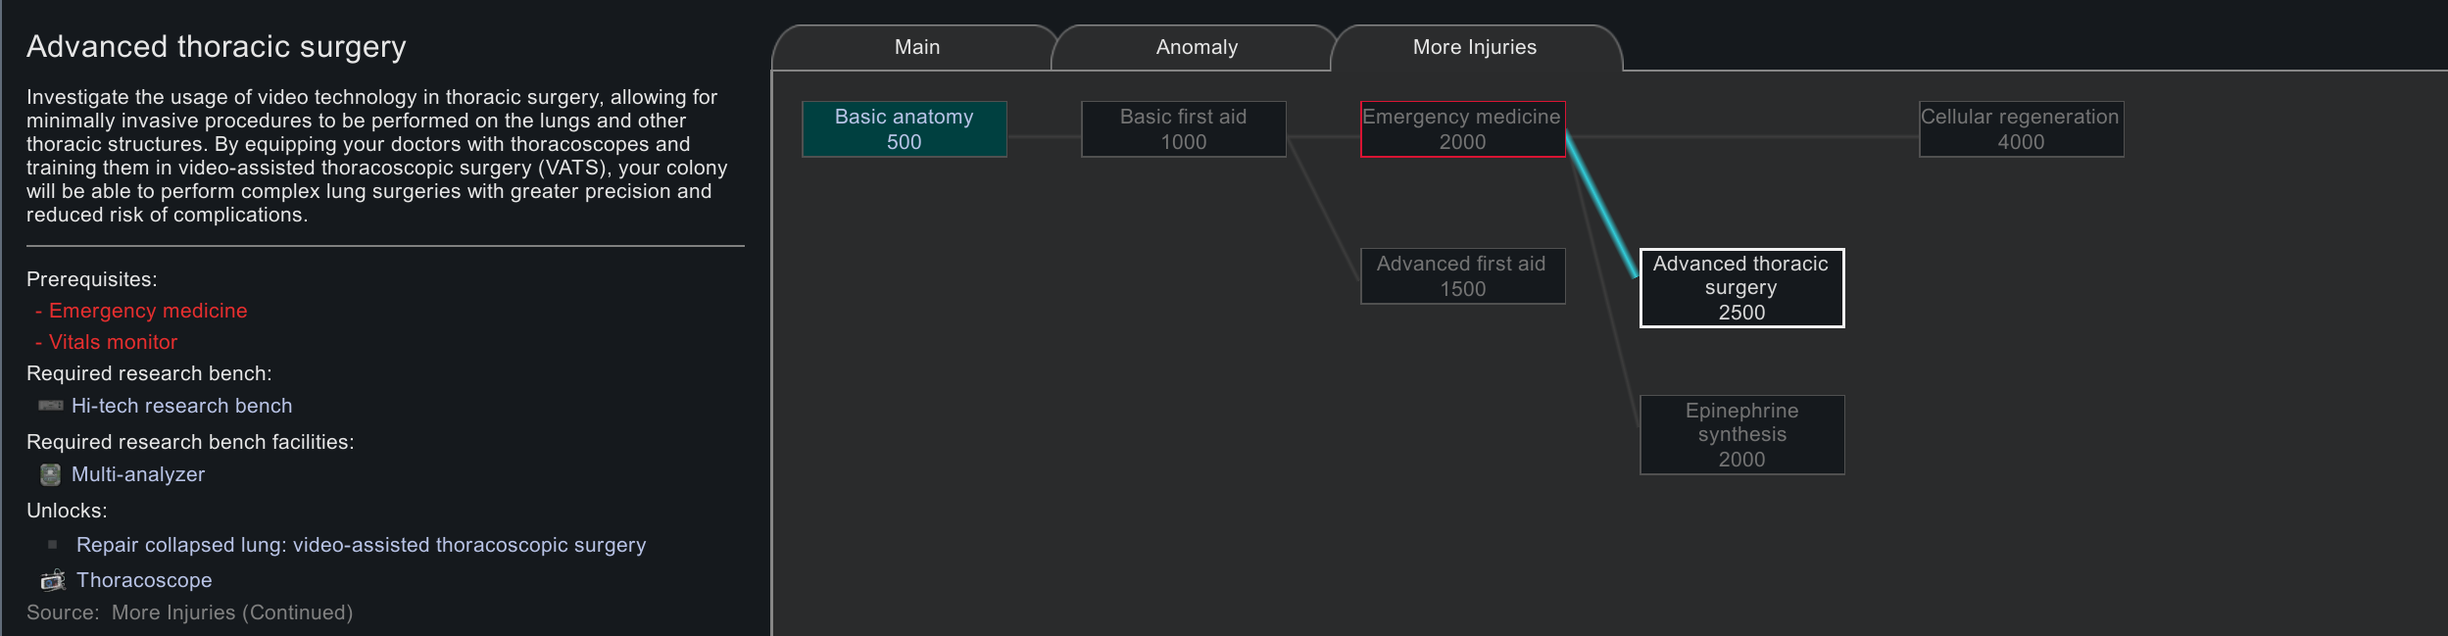
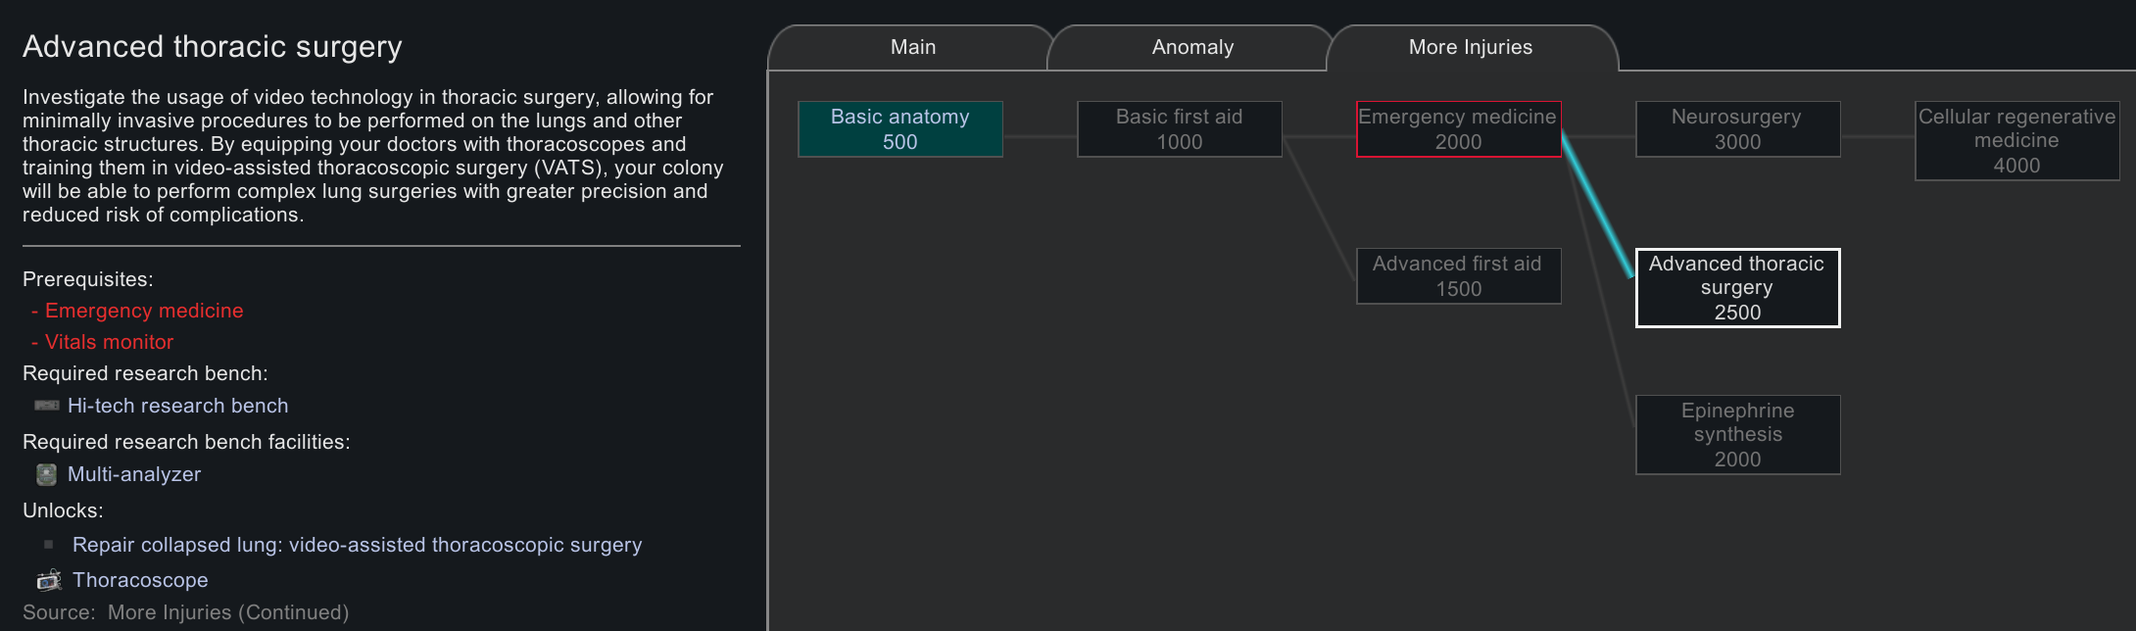
finish docs

diff --git a/README.md b/README.md
@@ -72,9 +72,10 @@ The More Injuries mod aims to increase the simulation depth of RimWorld's medica
     - [Basic First Aid](#basic-first-aid)
     - [Emergency Medicine](#emergency-medicine)
     - [Advanced First Aid](#advanced-first-aid)
+    - [Neurosurgery](#neurosurgery)
     - [Advanced Thoracic Surgery](#advanced-thoracic-surgery)
     - [Epinephrine Synthesis](#epinephrine-synthesis)
-    - [Cellular Regeneration](#cellular-regeneration)
+    - [Cellular Regenerative Medicine](#cellular-regenerative-medicine)
   - [New Work Types](#new-work-types)
     - [Defibrillation](#defibrillation)
     - [Airway Management](#airway-management)
@@ -362,13 +363,13 @@ Hypoxia is a condition in which the body or a region of the body is deprived of 
 ### Paralysis
 
 > **In-Game Description**
-> _"**Paralysis** &mdash; Damage of spinal cord caused irrepairable movement disability, ranging from sensory loss to complete loss of movement. Paralysis is often a life-changing condition and may require the use of bionic implants or prosthetics to restore function."_
+> _"**Paralysis** &mdash; Damage of spinal cord caused irrepairable movement disability, ranging from sensory loss to complete loss of movement. Although there have been reports of successful experimental treatments on distant glitterworlds using cellular regenerative neurosurgery to repair damaged nerve tissue and restore function to paralyzed limbs, for most people paralysis is a life-changing condition that requires the use of bionic implants or prosthetics to restore function."_
 
 **Causes**: Severe back injuries, such as a gunshot wound or stab wound to the spine, that crush or sever the spinal cord.
 
 **Effects**: Damage to the spinal cord prevents the transmission of signals between the brain and the affected body parts, causing a loss of movement and sensation in the affected limbs. Depending on the severity of the injury, patients may experience a range of symptoms, from sensory loss to complete loss of movement.
 
-**Treatment**: By itself, paralysis is an irreversible condition that cannot be treated with conventional medicine. However, bionic implants or prosthetics may be used to restore partial or full function to the affected body parts.
+**Treatment**: By itself, paralysis is an irreversible condition that cannot be treated with conventional medicine. However, bionic implants or prosthetics may be used to restore partial or full function to the affected body parts. There have also been reports of successful experimental treatments on distant glitterworlds using [cellular regenerative neurosurgery](#cellular-regenerative-neurosurgery) to repair damaged nerve tissue and restore function to paralyzed limbs.
 
 ### Spalling Injury
 
@@ -437,7 +438,7 @@ In order to effectively treat the new injuries and medical conditions introduced
 
 **Production**: At a machining table.  
 **Production Skill Requirement**: `Crafting` at level 4  
-**Research Requirements**: [Emergency Medicine](#emergency-medicine)  
+**Research Requirements**: [Emergency medicine](#emergency-medicine)  
 **Ingredients**: 25x `Steel`, 20x `Chemfuel`, 1x `Component`, 5x `Plasteel`  
 **Success Chance**: `<medicine skill>  / 8`, but at least the configured minimum success chance in the mod settings.
 
@@ -461,7 +462,7 @@ In order to effectively treat the new injuries and medical conditions introduced
 
 **Production**: At a crafting spot or tailor bench.  
 **Production Skill Requirement**: None  
-**Research Requirements**: [Basic Anatomy](#basic-anatomy)  
+**Research Requirements**: [Basic anatomy](#basic-anatomy)  
 **Ingredients**: 2x `any fabric`  
 **Success Chance**: 100%
 
@@ -490,7 +491,7 @@ In order to effectively treat the new injuries and medical conditions introduced
 2. Downed enemies can be executed through the `Harvest blood (finish off)` option in the right-click context menu to extract blood bags from them (requires a medically skilled, *drafted* pawn capable of doctoring). This is a quick and effective way to obtain blood bags from enemies on the battlefield, but is considered a war crime and will have severe consequences for your faction relations.
 3. Blood bags can be automatically and safely extracted from prisoners using the `blood bag farm` prisoner interaction option. It works analogous to the `hemogen farm` option from the Biotech DLC and allows to automatically schedule the extraction of blood bags from prisoners at regular intervals when it is safe to do so and does not pose a risk to the prisoner's health. It is still considered an unethical and offensive practice and will have consequences for your faction relations.
 
-**Research Requirements**: [Basic First Aid](#basic-first-aid)  
+**Research Requirements**: [Basic first aid](#basic-first-aid)  
 **Ingredients**: N/A  
 **Success Chance**: 100%
 
@@ -509,7 +510,7 @@ Cardiopulmonary resuscitation (CPR) is an emergency procedure that combines ches
 2. CPR is part of the [First Aid](#first-aid) order for *drafted* pawns.
 3. Alternatively, resuscitating patients using CPR is now part of a new general, high-priority work type for all doctors. So, if you have a patient in a hospital bed with a condition that requires CPR, any non-drafted doctor will automatically attempt to resuscitate the patient using CPR or a [defibrillator](#defibrillator), in accordance with the configured work priorities.
 
-**Research Requirements**: [Emergency Medicine](#emergency-medicine)  
+**Research Requirements**: [Emergency medicine](#emergency-medicine)  
 **Severity Reduction**: $f_{\text{sigmoid}}($ `medicine skill> / 15` $)$ where $f_{\text{sigmoid}}$ is a diffused sigmoid function defined as $f_{\text{sigmoid}}(x) = \frac{1}{1 + e^{-10\cdot(x - 0.5)}} + z$ where $z$ is a random factor between $-0.1$ and $0.1$. See [Wolfram Alpha](https://www.wolframalpha.com/input?i=f%28x%29+%3D+1+%2F+%281+%2B+e%5E%28-10*%28x%2F15+-+0.5%29%29%29+%2B+z%2C+x+in+%5B0%2C+20%5D%2C+z+in%5B-0.1%2C0.1%5D) for a visualization of the function.
 
 > [!IMPORTANT]
@@ -538,7 +539,7 @@ Defibrillation is a treatment for life-threatening conditions that affect the rh
 
 **Production**: At a machining table.  
 **Production Skill Requirement**: `Crafting` at level 6  
-**Research Requirements**: [Emergency Medicine](#emergency-medicine)  
+**Research Requirements**: [Emergency medicine](#emergency-medicine)  
 **Ingredients**: 25x `Steel`, 20x `Chemfuel`, 4x `Component`, 25x `Plasteel`, 10x `Gold`, 100x `Silver`  
 **Success Chance**: `<medicine skill>  / 8`, but at least the configured minimum success chance in the mod settings.  
 **Chance to Break[^1]**: 10%
@@ -563,7 +564,7 @@ Defibrillation is a treatment for life-threatening conditions that affect the rh
 
 **Production**: At a drug lab.  
 **Production Skill Requirement**: `Crafting` at level 6, `Intellectual` at level 4  
-**Research Requirements**: `Drug Production` and `Medicine Production`  
+**Research Requirements**: [Epinephrine synthesis](#epinephrine-synthesis)  
 **Ingredients**: 1x `Neutroamine`, 1x `Yayo`  
 **Success Chance**: 100%
 
@@ -618,7 +619,7 @@ After each step, the doctor will re-evaluate the patient's condition and decide 
 
 **Production**: At a drug lab.  
 **Production Skill Requirement**: `Crafting` at level 4  
-**Research Requirements**: [Advanced First Aid](#advanced-first-aid)  
+**Research Requirements**: [Advanced first aid](#advanced-first-aid)  
 **Ingredients**: 5x `any textile`, 3x `Chemfuel`  
 **Success Chance**: 100%
 
@@ -648,7 +649,7 @@ After each step, the doctor will re-evaluate the patient's condition and decide 
 
 **Production**: At a crafting spot or machining table.  
 **Production Skill Requirement**: None  
-**Research Requirements**: [Basic Anatomy](#basic-anatomy)  
+**Research Requirements**: [Basic anatomy](#basic-anatomy)  
 **Ingredients**: 4x `Wood` or `Steel`, 1x `any textile`  
 **Success Chance**: 100%
 
@@ -670,7 +671,7 @@ After each step, the doctor will re-evaluate the patient's condition and decide 
 
 **Production**: At a machining table.  
 **Production Skill Requirement**: `Crafting` at level 8  
-**Research Requirements**: [Advanced Thoracic Surgery](#advanced-thoracic-surgery)  
+**Research Requirements**: [Advanced thoracic surgery](#advanced-thoracic-surgery)  
 **Ingredients**: 20x `Steel`, 20x `Chemfuel`, 4x `Component`, 50x `Plasteel`, 20x `Gold`, 250x `Silver`  
 **Chance to Break[^1]**: 20%
 
@@ -706,7 +707,7 @@ Alternatively, use the *tourniquet gizmo* (depicted on the right) to apply or re
 
 **Production**: At a crafting spot or tailor bench.  
 **Production Skill Requirement**: None  
-**Research Requirements**: [Basic First Aid](#basic-first-aid)  
+**Research Requirements**: [Basic first aid](#basic-first-aid)  
 **Ingredients**: 1x `Wood` or `Steel`, 4x `any textile` or `leather`  
 **Success Chance**: 100%
 
@@ -726,19 +727,31 @@ Just like base game surgeries, these new surgeries will be available in the *ope
 
 ### Cellular Regenerative Neurosurgery
 
-TODO ...
+$\rightarrow$ *see [paralysis](#paralysis)*
+
+> **In-Game Description**
+> _"**Restore mobility: cellular regenerative surgery** &mdash; Cellular regenerative neurosurgery (CRNS) is an experimental glitterworld surgery that uses mechanites to repair damaged nerve cells in the spinal cord, restoring mobility to a person with permanent paralysis. The procedure is expensive and not widely available, but has shown promising results in restoring mobility, even in very severe cases."_
+
+**Used for**: Treating [paralysis](#paralysis) with advanced medical techniques and glitterworld medicine.
+
+**Skill Requirements**: `Medicine` at level 12  
+**Research Requirements**: [Cellular regenerative medicine](#cellular-regenerative-medicine)  
+**Ingredients**: 2x `Glitterworld Medicine`  
+**Surgery Success Chance Factor[^2]**: 110%  
+**Death on Failed Surgery Chance[^3]**: 0%  
+**Work Amount**: 4500
 
 ### Cellular Regenerative Otologic Surgery
 
 $\rightarrow$ *see [permanent hearing loss](#permanent-hearing-loss)*
 
 > **In-Game Description**
-> _"**Repair hearing loss: cellular regenerative surgery** &mdash; Cellular Regenerative Otologic Surgery (CROS) is an experimental glitterworld surgery that uses mechanites to repair damaged hair cells in the inner ear, restoring hearing to a person with permanent hearing loss. The procedure is expensive and not widely available, but has shown moderate success in restoring hearing, even in very severe cases."_
+> _"**Repair hearing loss: cellular regenerative surgery** &mdash; Cellular Regenerative Otologic Surgery (CROS) is an experimental glitterworld surgery that uses mechanites to repair damaged hair cells in the inner ear, restoring hearing to a person with permanent hearing loss. The procedure is expensive and not widely available, but has shown promising results in restoring hearing, even in very severe cases."_
 
 **Used for**: Treating [permanent hearing loss](#permanent-hearing-loss) with advanced medical techniques and glitterworld medicine.
 
 **Skill Requirements**: `Medicine` at level 12  
-**Research Requirements**: None  
+**Research Requirements**: [Cellular regenerative medicine](#cellular-regenerative-medicine)  
 **Ingredients**: 2x `Glitterworld Medicine`  
 **Surgery Success Chance Factor[^2]**: 110%  
 **Death on Failed Surgery Chance[^3]**: 0%  
@@ -759,7 +772,7 @@ $\rightarrow$ *see [hemorrhagic stroke](#hemorrhagic-stroke)*
 **Used for**: Treating [hemorrhagic stroke](#hemorrhagic-stroke) with good medical knowledge and industrial equipment at a moderate success rate.
 
 **Skill Requirements**: `Medicine` at level 5  
-**Research Requirements**: [Emergency Medicine](#emergency-medicine)  
+**Research Requirements**: [Emergency medicine](#emergency-medicine)  
 **Ingredients**: 3x `Medicine` or better  
 **Surgery Success Chance Factor[^2]**: 110%  
 **Death on Failed Surgery Chance[^3]**: 2.5%  
@@ -776,7 +789,7 @@ $\rightarrow$ *see [bone fracture](#bone-fracture)*
 **Used for**: Treating [bone fractures](#bone-fracture) with more expensive and invasive surgical techniques to speed up the healing process significantly.
 
 **Skill Requirements**: `Medicine` at level 5  
-**Research Requirements**: [Emergency Medicine](#emergency-medicine)  
+**Research Requirements**: [Emergency medicine](#emergency-medicine)  
 **Ingredients**: 2x any `Medicine`, 5x `Plasteel`  
 **Surgery Success Chance Factor[^2]**: 125%  
 **Death on Failed Surgery Chance[^3]**: 0.5%  
@@ -794,7 +807,7 @@ $\rightarrow$ *see [hemorrhagic stroke](#hemorrhagic-stroke)*
 **Used for**: Treating [hemorrhagic stroke](#hemorrhagic-stroke) with excellent medical knowledge and advanced medical equipment at a high success rate.
 
 **Skill Requirements**: `Medicine` at level 8  
-**Research Requirements**: None  
+**Research Requirements**: [Neurosurgery](#neurosurgery)  
 **Ingredients**: 4x `Medicine` or better, 1x `Glitterworld Medicine`  
 **Surgery Success Chance Factor[^2]**: 150%  
 **Death on Failed Surgery Chance[^3]**: 1%  
@@ -812,7 +825,7 @@ $\rightarrow$ *see [lung collapse](#lung-collapse)*
 **Used for**: Treating [lung collapse](#lung-collapse) with invasive surgical techniques to repair the damage and restore the lung to full function. Moderate success rate and moderate risk of complications.
 
 **Skill Requirements**: `Medicine` at level 6  
-**Research Requirements**: [Emergency Medicine](#emergency-medicine)  
+**Research Requirements**: [Emergency medicine](#emergency-medicine)  
 **Ingredients**: 3x `Medicine`  
 **Surgery Success Chance Factor[^2]**: 100%  
 **Death on Failed Surgery Chance[^3]**: 2.5%  
@@ -830,7 +843,7 @@ $\rightarrow$ *see [hemorrhagic stroke](#hemorrhagic-stroke)*
 **Used for**: Treating [hemorrhagic stroke](#hemorrhagic-stroke) with readily available equipment and basic medical knowledge at a mediocre success rate.
 
 **Skill Requirements**: `Medicine` at level 2  
-**Research Requirements**: [Basic Anatomy](#basic-anatomy)  
+**Research Requirements**: [Basic anatomy](#basic-anatomy)  
 **Ingredients**: 2x `Herbal Medicine` or better  
 **Surgery Success Chance Factor[^2]**: 90%  
 **Death on Failed Surgery Chance[^3]**: 7.5%  
@@ -851,11 +864,11 @@ $\rightarrow$ *see [lung collapse](#lung-collapse)*
 **Used for**: Treating [lung collapse](#lung-collapse) with minimally invasive surgical techniques to repair the damage and restore the lung to full function. High success rate and low risk of complications.
 
 **Skill Requirements**: `Medicine` at level 8  
-**Research Requirements**: [Advanced Thoracic Surgery](#advanced-thoracic-surgery)  
+**Research Requirements**: [Advanced thoracic surgery](#advanced-thoracic-surgery)  
 **Ingredients**: 3x `Medicine` or better, 1x[^1] [Thoracoscope](#thoracoscope)  
 **Surgery Success Chance Factor[^2]**: 135%  
 **Death on Failed Surgery Chance[^3]**: 1%  
-**Work Amount**: 5000
+**Work Amount**: 4000
 
 ## New Research Projects
 
@@ -863,76 +876,105 @@ More Injuries introduces several new research projects that can be undertaken to
 
 ![An overview of the new research projects added by More Injuries.](assets/research.png)
 
-> [!NOTE]
-> All new research projects can be found in the *More Injuries* research tab.
-
-TODO: update dependencies to list required research projects
+> [!TIP]
+> All new research projects can be found in the new *More Injuries* research tab.
 
 ### Basic Anatomy
 
 > **In-Game Description**
-> _"**Basic Anatomy** &mdash; Delving into the fundamentals of human anatomy, this research uncovers ancient knowledge from the earliest recorded forms of medicine. By studying these time-honored practices, your scientists will equip your doctors with the skills to perform basic medical procedures, including wound treatment and disease management. This marks a vital first step toward restoring advanced medical practices in your colony."_
+> _"**Basic anatomy** &mdash; Delving into the fundamentals of human anatomy, this research uncovers ancient knowledge from the earliest recorded forms of medicine. By studying these time-honored practices, your scientists will equip your doctors with the skills to perform basic medical procedures, including wound treatment and disease management. This marks a vital first step toward restoring advanced medical practices in your colony."_
 
 **Tech Level**: Neolithic  
-**Unlocks**: [bandages](#bandage), [splints](#splint), [trepanation](#trepanation)  
+**Unlocks**: [Bandages](#bandage), [splints](#splint), [trepanation](#trepanation)  
 **Required Research Bench & Addon**: Simple  
 **Research Requirements**: None  
-**Unlocks Research Projects**: [Basic First Aid](#basic-first-aid)  
+**Unlocks Research Projects**: [Basic first aid](#basic-first-aid)  
 **Research Cost**: 500
 
 ### Basic First Aid
 
 > **In-Game Description**
-> _"**Basic First Aid** &mdash; Building upon the knowledge of basic anatomy, this research delves into the fundamental principles of first aid. By studying approaches to reduce blood loss and stabilize patients in critical condition, your colony will be better equipped to handle medical emergencies."_
+> _"**Basic first aid** &mdash; Building upon the knowledge of basic anatomy, this research delves into the fundamental principles of first aid. By studying approaches to reduce blood loss and stabilize patients in critical condition, your colony will be better equipped to handle medical emergencies."_
 
 **Tech Level**: Medieval  
-**Unlocks**: [blood transfusions](#blood-bag), [tourniquets](#tourniquet)  
+**Unlocks**: [Blood transfusions](#blood-bag), [tourniquets](#tourniquet)  
 **Required Research Bench & Addon**: Simple  
-**Research Requirements**: [Basic Anatomy](#basic-anatomy), Machining  
-**Unlocks Research Projects**: [Emergency Medicine](#emergency-medicine), [Advanced First Aid](#advanced-first-aid)  
+**Research Requirements**: [Basic anatomy](#basic-anatomy), machining  
+**Unlocks Research Projects**: [Emergency medicine](#emergency-medicine), [advanced first aid](#advanced-first-aid)  
 **Research Cost**: 1000
 
 ### Emergency Medicine
 
 > **In-Game Description**
-> _"**Emergency Medicine** &mdash; With the foundation of basic first aid in place, this research delves into the advanced field of emergency medicine. By studying the latest techniques in life-saving medical interventions, your doctors will be equipped to handle a wide range of critical medical emergencies, from cardiac arrest to traumatic injuries."_
+> _"**Emergency medicine** &mdash; With the foundation of basic first aid in place, this research delves into the advanced field of emergency medicine. By studying the latest techniques in life-saving medical interventions, your doctors will be equipped to handle a wide range of critical medical emergencies, from cardiac arrest to traumatic injuries."_
 
 **Tech Level**: Industrial  
 **Unlocks**: [CPR](#cpr), [defibrillators](#defibrillator), [airway suction devices](#airway-suction-device), [decompressive craniectomy](#decompressive-craniectomy), [osteosynthetic surgery](#osteosynthetic-surgery), [thoracotomy](#thoracotomy)  
 **Required Research Bench & Addon**: Hi-tech  
-**Research Requirements**: [Basic First Aid](#basic-first-aid), Microelectronics  
-**Unlocks Research Projects**: [Cellular Regeneration](#cellular-regeneration), [Advanced Thoracic Surgery](#advanced-thoracic-surgery), [Epinephrine Synthesis](#epinephrine-synthesis)  
+**Research Requirements**: [Basic first aid](#basic-first-aid), Microelectronics  
+**Unlocks Research Projects**: [Cellular regeneration](#cellular-regeneration), [advanced thoracic surgery](#advanced-thoracic-surgery), [epinephrine synthesis](#epinephrine-synthesis)  
 **Research Cost**: 2000
 
 ### Advanced First Aid
 
 > **In-Game Description**
-> _"**Advanced First Aid** &mdash; Expanding on the principles of basic first aid and drug synthesis, your researchers will investigate the development of hemostatic agents. These advanced coagulants can be used to limit severe bleeding even more effectively than traditional bandages, reducing the risk of exsanguination in patients with severe injuries."_
+> _"**Advanced first aid** &mdash; Expanding on the principles of basic first aid and drug synthesis, your researchers will investigate the development of hemostatic agents. These advanced coagulants can be used to limit severe bleeding even more effectively than traditional bandages, reducing the risk of exsanguination in patients with severe injuries."_
 
 **Tech Level**: Industrial  
-**Unlocks**: [hemostatic agents](#hemostatic-agent)  
+**Unlocks**: [Hemostatic agents](#hemostatic-agent)  
 **Required Research Bench & Addon**: Simple  
-**Research Requirements**: [Basic First Aid](#basic-first-aid), Drug Production  
+**Research Requirements**: [Basic first aid](#basic-first-aid), drug production  
 **Unlocks Research Projects**: None  
 **Research Cost**: 1500
+
+### Neurosurgery
+
+> **In-Game Description**
+> _"**Neurosurgery** &mdash; By specializing in the field of neurosurgery, your doctors will be able to perform complex procedures on the brain. This research unlocks the use of stereotactic surgery, a minimally invasive form of surgical intervention that makes use of a three-dimensional coordinate system to locate small targets inside the body, allowing for precise localization of hemorrhages and tumors while minimizing neurological damage."_
+
+**Tech Level**: Industrial  
+**Unlocks**: [Stereotactic surgery](#stereotactic-surgery)  
+**Required Research Bench & Addon**: Hi-tech (Multi-analyzer)  
+**Research Requirements**: [Emergency medicine](#emergency-medicine), fabrication  
+**Unlocks Research Projects**: None  
+**Research Cost**: 3000
 
 ### Advanced Thoracic Surgery
 
 > **In-Game Description**
-> _"**Advanced Thoracic Surgery** &mdash; Investigate the usage of video technology in thoracic surgery, allowing for minimally invasive procedures to be performed on the lungs and other thoracic structures. By equipping your doctors with thoracoscopes and training them in video-assisted thoracoscopic surgery (VATS), your colony will be able to perform complex lung surgeries with greater precision and reduced risk of complications."_
+> _"**Advanced thoracic surgery** &mdash; Investigate the usage of video technology in thoracic surgery, allowing for minimally invasive procedures to be performed on the lungs and other thoracic structures. By equipping your doctors with thoracoscopes and training them in video-assisted thoracoscopic surgery (VATS), your colony will be able to perform complex lung surgeries with greater precision and reduced risk of complications."_
 
 **Tech Level**: Industrial  
-**Unlocks**: [thoracoscopes](#thoracoscope), [video-assisted thoracoscopic surgery](#video-assisted-thoracoscopic-surgery)  
+**Unlocks**: [Thoracoscopes](#thoracoscope), [video-assisted thoracoscopic surgery](#video-assisted-thoracoscopic-surgery)  
 **Required Research Bench & Addon**: Hi-tech (Multi-analyzer)  
-**Research Requirements**: [Emergency Medicine](#emergency-medicine), Vitals monitor  
+**Research Requirements**: [Emergency medicine](#emergency-medicine), Vitals monitor  
 **Unlocks Research Projects**: None  
 **Research Cost**: 2500
 
 ### Epinephrine Synthesis
 
-TODO
+> **In-Game Description**
+> _"**Epinephrine synthesis** &mdash; Research into the synthesis of epinephrine, a hormone and neurotransmitter that plays a vital role in the body's fight-or-flight response. By developing an autoinjector that can deliver a precise dose of epinephrine in emergency situations, you will be able to craft epinephrine autoinjectors that can be used to boost blood pressure and increase heart rate to temporarily reduce the adverse effects of hypovolemic shock and anemia.
+> We suspect an additional potential use for this drug as a combat stimulant, but further research is required to confirm its efficacy."_
 
-### Cellular Regeneration 
+**Tech Level**: Industrial  
+**Unlocks**: [Epinephrine autoinjectors](#epinephrine-autoinjector)  
+**Required Research Bench & Addon**: Hi-tech (Multi-analyzer)  
+**Research Requirements**: [Emergency medicine](#emergency-medicine), drug production  
+**Unlocks Research Projects**: None  
+**Research Cost**: 2000
+
+### Cellular Regenerative Medicine
+
+> **In-Game Description**
+> _"**Cellular regenerative medicine** &mdash; Unlock the secrets of cellular regeneration, a cutting-edge medical technology that allows for the repair and regrowth of damaged tissues at the cellular level. By using mechanites to stimulate the body's natural healing processes, your doctors will be able to cure injuries that were previously considered untreatable, such as hearing and nerve damage. The same technology is used on glitterworlds to treat paralysis and degenerative diseases, but its application is still experimental and its long-term effects are not yet fully understood."_
+
+**Tech Level**: Spacer  
+**Unlocks**: [Cellular regenerative neurosurgery](#cellular-regenerative-neurosurgery), [cellular regenerative otologic surgery](#cellular-regenerative-otologic-surgery)  
+**Required Research Bench & Addon**: Hi-tech (Multi-analyzer)  
+**Research Requirements**: [Neurosurgery](#neurosurgery), advanced fabrication, bionics  
+**Unlocks Research Projects**: None  
+**Research Cost**: 4000
 
 ## New Work Types
 
